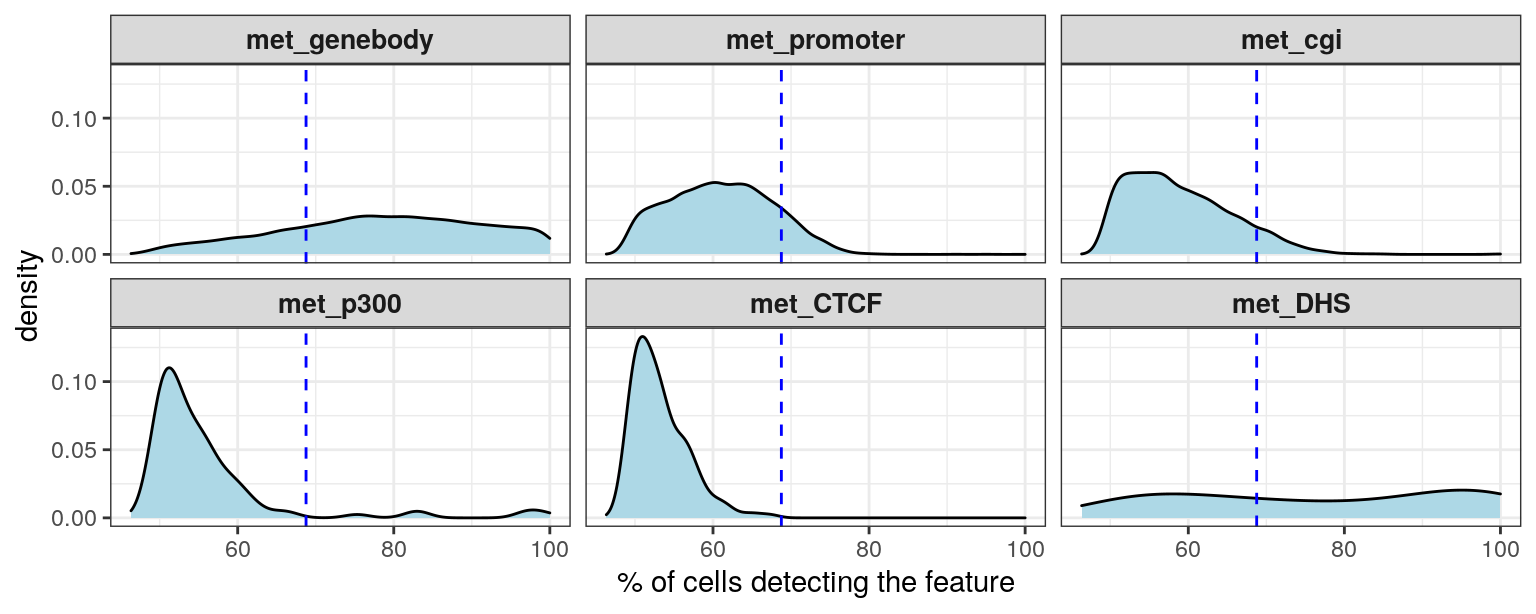
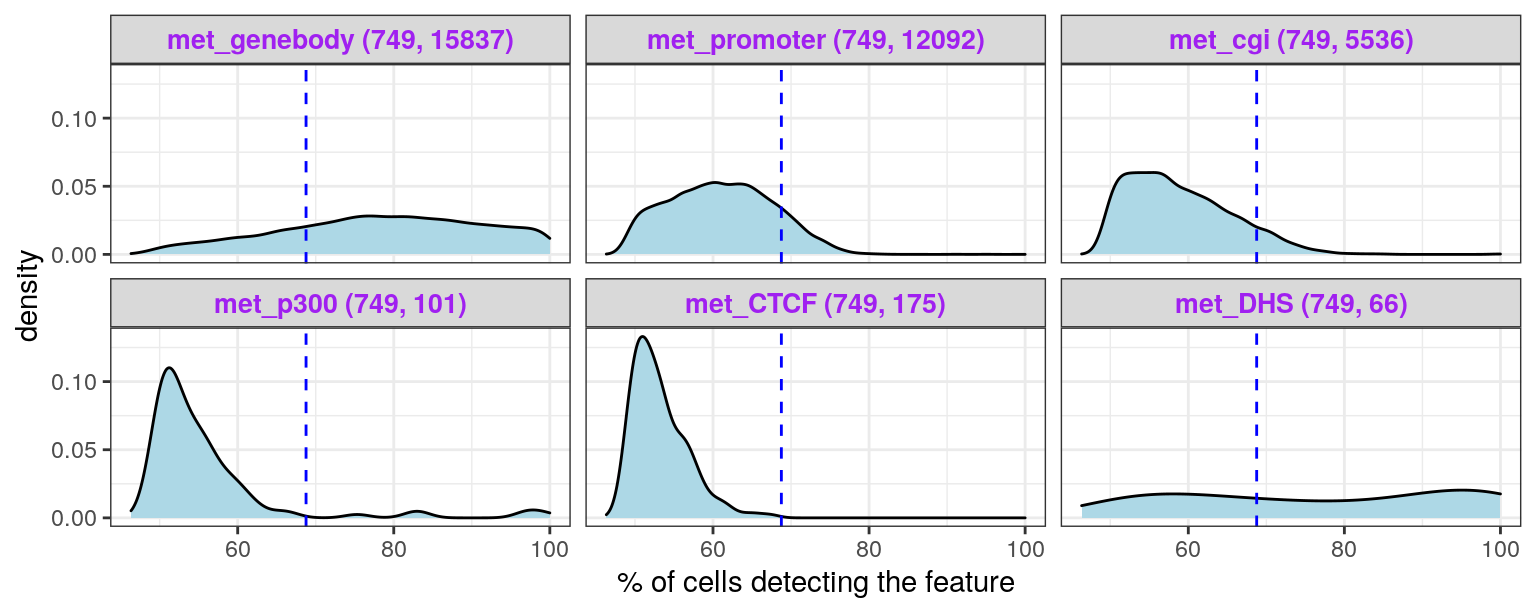
Deploying to gh-pages from  @ 44275f7bd87b1e6c330ce9ae592101da5ae94048 🚀

diff --git a/articles/index.html b/articles/index.html
@@ -100,16 +100,13 @@
     
 <p>To Do</p>
 <ul>
-<li>Add performance measure</li>
-<li>Add the number of features to subtitles in <code>cov_plot</code>
-</li>
-<li>Ensure python3 can be configured for MOFA2</li>
+<li>Add kNN</li>
 </ul>
 <hr>
 <p><strong>Note:</strong> These analyses are (slightly) different from the ones presented in the hackathon in the sense that:</p>
 <ul>
 <li>The cells used are different (only embryonic cells used)</li>
-<li>To enhance reproducibility on different machines, <code><a href="https://rdrr.io/pkg/uwot/man/umap.html">uwot::umap</a></code> was used instead of <code><a href="https://rdrr.io/pkg/umap/man/umap.html">umap::umap</a></code> for dimensionality reduction of RNA data so that python depndencies are reduced</li>
+<li>To enhance reproducibility on different machines, <code><a href="https://rdrr.io/pkg/uwot/man/umap.html">uwot::umap</a></code> was used instead of <code><a href="https://rdrr.io/pkg/umap/man/umap.html">umap::umap</a></code> for dimensionality reduction of RNA data so that python dependencies are reduced</li>
 </ul>
 <hr>
 <p>Load the required packages:</p>
@@ -162,10 +159,10 @@
 <div id="filter-extra-embryonic-cells" class="section level2">
 <h2 class="hasAnchor">
 <a href="#filter-extra-embryonic-cells" class="anchor"></a>filter extra-embryonic cells</h2>
-<div class="sourceCode" id="cb4"><html><body><pre class="r"><span class="fu"><a href="https://rdrr.io/r/base/cat.html">cat</a></span>(<span class="fu"><a href="https://rdrr.io/r/base/sprintf.html">sprintf</a></span>(<span class="st">'Dropping cells from lineage(s) %s ... \n'</span>, <span class="fu"><a href="https://rdrr.io/r/base/paste.html">paste</a></span>(<span class="fu"><a href="https://rdrr.io/r/base/sQuote.html">sQuote</a></span>(<span class="no">params</span>$<span class="no">drop_lineages</span>), <span class="kw">collapse</span> <span class="kw">=</span> <span class="st">', '</span>)))
-<span class="co">#&gt; Dropping cells from lineage(s) 'Visceral_endoderm', 'ExE_ectoderm' ...</span>
-<span class="fu"><a href="https://rdrr.io/r/base/cat.html">cat</a></span>(<span class="fu"><a href="https://rdrr.io/r/base/sprintf.html">sprintf</a></span>(<span class="st">'Retaining assays: %s ... \n'</span>, <span class="fu"><a href="https://rdrr.io/r/base/paste.html">paste</a></span>(<span class="fu"><a href="https://rdrr.io/r/base/sQuote.html">sQuote</a></span>(<span class="no">params</span>$<span class="no">keep_assays</span>), <span class="kw">collapse</span> <span class="kw">=</span> <span class="st">', '</span>)))
-<span class="co">#&gt; Retaining assays: 'rna', 'met_genebody', 'met_promoter', 'met_cgi', 'met_p300', 'met_CTCF', 'met_DHS' ...</span>
+<div class="sourceCode" id="cb4"><html><body><pre class="r"><span class="fu"><a href="https://rdrr.io/r/base/cat.html">cat</a></span>(<span class="fu"><a href="https://rdrr.io/r/base/sprintf.html">sprintf</a></span>(<span class="st">'Dropping cells from lineage(s) %s:\n'</span>, <span class="fu"><a href="https://rdrr.io/r/base/paste.html">paste</a></span>(<span class="fu"><a href="https://rdrr.io/r/base/sQuote.html">sQuote</a></span>(<span class="no">params</span>$<span class="no">drop_lineages</span>), <span class="kw">collapse</span> <span class="kw">=</span> <span class="st">', '</span>)))
+<span class="co">#&gt; Dropping cells from lineage(s) 'Visceral_endoderm', 'ExE_ectoderm':</span>
+<span class="fu"><a href="https://rdrr.io/r/base/cat.html">cat</a></span>(<span class="fu"><a href="https://rdrr.io/r/base/sprintf.html">sprintf</a></span>(<span class="st">'Retaining assays: %s: \n'</span>, <span class="fu"><a href="https://rdrr.io/r/base/paste.html">paste</a></span>(<span class="fu"><a href="https://rdrr.io/r/base/sQuote.html">sQuote</a></span>(<span class="no">params</span>$<span class="no">keep_assays</span>), <span class="kw">collapse</span> <span class="kw">=</span> <span class="st">', '</span>)))
+<span class="co">#&gt; Retaining assays: 'rna', 'met_genebody', 'met_promoter', 'met_cgi', 'met_p300', 'met_CTCF', 'met_DHS':</span>
 <span class="no">gastru.mae</span> <span class="kw">&lt;-</span> <span class="no">gastru.mae</span>[, !(<span class="no">gastru.mae</span>$<span class="no">lineage10x_2</span> <span class="kw">%in%</span> <span class="no">params</span>$<span class="no">drop_lineages</span>), <span class="no">params</span>$<span class="no">keep_assays</span>]
 <span class="co">#&gt; harmonizing input:</span>
 <span class="co">#&gt;   removing 4494 sampleMap rows not in names(experiments)</span></pre></body></html></div>
@@ -214,7 +211,7 @@
 </tr>
 </tbody>
 </table>
-<div class="sourceCode" id="cb7"><html><body><pre class="r"><span class="co">## create a data.frame from cell meta data</span>
+<div class="sourceCode" id="cb7"><html><body><pre class="r"><span class="co">## create a data.frame from cell metadata</span>
 <span class="no">coldata</span> <span class="kw">&lt;-</span> <span class="fu"><a href="https://rdrr.io/r/base/data.frame.html">data.frame</a></span>(<span class="fu">colData</span>(<span class="no">gastru.mae</span>))</pre></body></html></div>
 </div>
 <div id="feature-detection" class="section level2">
@@ -223,8 +220,19 @@
 <p>Create density plots of the feature detection rate across all cells for all modalities:</p>
 <div class="sourceCode" id="cb8"><html><body><pre class="r"><span class="co"># get the methylation assays</span>
 <span class="no">met_assays</span> <span class="kw">&lt;-</span> <span class="fu"><a href="https://rdrr.io/r/base/grep.html">grep</a></span>(<span class="fu"><a href="https://rdrr.io/r/base/names.html">names</a></span>(<span class="no">gastru.mae</span>), <span class="kw">pattern</span> <span class="kw">=</span> <span class="st">'^met'</span>, <span class="kw">value</span> <span class="kw">=</span> <span class="fl">TRUE</span>)
+<span class="co"># add dimensions to labels for ggplot</span>
+<span class="no">dims</span> <span class="kw">&lt;-</span> <span class="fu"><a href="https://rdrr.io/r/base/lapply.html">lapply</a></span>(<span class="fu"><a href="https://rdrr.io/pkg/MultiAssayExperiment/man/MultiAssayExperiment-methods.html">experiments</a></span>(<span class="no">gastru.mae</span>[,,<span class="no">met_assays</span>]), <span class="no">dim</span>)
+<span class="co">#&gt; harmonizing input:</span>
+<span class="co">#&gt;   removing 749 sampleMap rows not in names(experiments)</span>
+<span class="no">dims</span> <span class="kw">&lt;-</span> <span class="fu"><a href="https://rdrr.io/r/base/lapply.html">sapply</a></span>(<span class="no">dims</span>, <span class="kw">function</span>(<span class="no">x</span>) <span class="fu"><a href="https://rdrr.io/r/base/sprintf.html">sprintf</a></span>(<span class="st">' (%s, %s)'</span>, <span class="no">x</span>[<span class="fl">2</span>], <span class="no">x</span>[<span class="fl">1</span>]))
+<span class="fu"><a href="https://rdrr.io/r/base/names.html">names</a></span>(<span class="no">met_assays</span>) <span class="kw">&lt;-</span> <span class="fu"><a href="https://rdrr.io/r/base/paste.html">paste0</a></span>(<span class="no">met_assays</span>, <span class="no">dims</span>) <span class="kw">%&gt;%</span> <span class="fu"><a href="https://rdrr.io/r/base/list.html">as.list</a></span>()
+<span class="no">met_assays</span>
+<span class="co">#&gt; met_genebody (749, 15837) met_promoter (749, 12092)       met_cgi (749, 5536) </span>
+<span class="co">#&gt;            "met_genebody"            "met_promoter"                 "met_cgi" </span>
+<span class="co">#&gt;       met_p300 (749, 101)       met_CTCF (749, 175)         met_DHS (749, 66) </span>
+<span class="co">#&gt;                "met_p300"                "met_CTCF"                 "met_DHS"</span>
 <span class="co"># calculate the feature detection in a data.frame for methylation assays</span>
-<span class="no">coverages</span> <span class="kw">&lt;-</span> <span class="fu"><a href="https://rdrr.io/r/base/lapply.html">lapply</a></span>(<span class="fu">named_list</span>(<span class="no">met_assays</span>), <span class="kw">function</span>(<span class="no">assay_name</span>) {
+<span class="no">coverages</span> <span class="kw">&lt;-</span> <span class="fu"><a href="https://rdrr.io/r/base/lapply.html">lapply</a></span>(<span class="no">met_assays</span>, <span class="kw">function</span>(<span class="no">assay_name</span>) {
   <span class="no">mat</span> <span class="kw">&lt;-</span> <span class="fu">assay</span>(<span class="no">gastru.mae</span>, <span class="no">assay_name</span>)
   <span class="no">NAs</span> <span class="kw">&lt;-</span> <span class="fu"><a href="https://rdrr.io/r/base/colSums.html">rowSums</a></span>(!<span class="fu"><a href="https://rdrr.io/r/base/NA.html">is.na</a></span>(<span class="no">mat</span>))/<span class="fu"><a href="https://rdrr.io/r/base/dim.html">dim</a></span>(<span class="no">mat</span>)[<span class="fl">2</span>]*<span class="fl">100</span>
   <span class="fu"><a href="https://rdrr.io/r/base/data.frame.html">data.frame</a></span>(<span class="kw">pct_NAs</span><span class="kw">=</span><span class="no">NAs</span>)
@@ -232,11 +240,13 @@
 <span class="co"># create a long data.frame containing the assay name for plot</span>
 <span class="no">coverages</span> <span class="kw">&lt;-</span> <span class="fu"><a href="https://github.com/ajabadi/BIRSBIO2020.scNMTseq.PLS/reference/utils.html">rbindListWithNames</a></span>(<span class="no">coverages</span>)
 <span class="no">coverages</span>$<span class="no">dataset</span> <span class="kw">&lt;-</span> <span class="fu"><a href="https://rdrr.io/r/base/factor.html">factor</a></span>(<span class="no">coverages</span>$<span class="no">dataset</span>, <span class="kw">levels</span> <span class="kw">=</span> <span class="fu"><a href="https://Rdatatable.gitlab.io/data.table/reference/duplicated.html">unique</a></span>(<span class="no">coverages</span>$<span class="no">dataset</span>), <span class="kw">ordered</span> <span class="kw">=</span> <span class="fl">TRUE</span>)</pre></body></html></div>
+<p>Genomic contexts vary in level of feature detection rates:</p>
 <div class="sourceCode" id="cb9"><html><body><pre class="r"><span class="no">cov_plot</span> <span class="kw">&lt;-</span> <span class="fu"><a href="https://ggplot2.tidyverse.org/reference/ggplot.html">ggplot</a></span>(<span class="no">coverages</span>, <span class="fu"><a href="https://ggplot2.tidyverse.org/reference/aes.html">aes</a></span>(<span class="kw">x</span> <span class="kw">=</span> <span class="no">pct_NAs</span>)) + <span class="fu"><a href="https://ggplot2.tidyverse.org/reference/geom_density.html">geom_density</a></span>(<span class="kw">fill</span> <span class="kw">=</span> <span class="st">'lightblue'</span>, <span class="kw">show.legend</span> <span class="kw">=</span> <span class="fl">FALSE</span>) +
   <span class="fu"><a href="https://ggplot2.tidyverse.org/reference/geom_abline.html">geom_vline</a></span>(<span class="fu"><a href="https://ggplot2.tidyverse.org/reference/aes.html">aes</a></span>(<span class="kw">xintercept</span><span class="kw">=</span><span class="fu"><a href="https://rdrr.io/r/base/mean.html">mean</a></span>(<span class="no">pct_NAs</span>)),
              <span class="kw">color</span><span class="kw">=</span><span class="st">"blue"</span>, <span class="kw">linetype</span><span class="kw">=</span><span class="st">"dashed"</span>, <span class="kw">size</span><span class="kw">=</span><span class="fl">0.5</span>) +
   <span class="fu"><a href="https://ggplot2.tidyverse.org/reference/labs.html">labs</a></span>(<span class="kw">x</span> <span class="kw">=</span> <span class="st">'% of cells detecting the feature'</span>) + <span class="fu"><a href="https://ggplot2.tidyverse.org/reference/facet_wrap.html">facet_wrap</a></span>(<span class="no">.</span>~<span class="no">dataset</span>, <span class="kw">nrow</span> <span class="kw">=</span> <span class="fl">2</span>) +
-  <span class="fu"><a href="https://ggplot2.tidyverse.org/reference/ggtheme.html">theme_bw</a></span>() + <span class="fu"><a href="https://ggplot2.tidyverse.org/reference/theme.html">theme</a></span>(<span class="kw">strip.text.x</span> <span class="kw">=</span> <span class="fu"><a href="https://ggplot2.tidyverse.org/reference/element.html">element_text</a></span>(<span class="kw">size</span> <span class="kw">=</span> <span class="fl">10</span>, <span class="kw">face</span> <span class="kw">=</span> <span class="st">'bold'</span>))
+  <span class="fu"><a href="https://ggplot2.tidyverse.org/reference/ggtheme.html">theme_bw</a></span>() + <span class="fu"><a href="https://ggplot2.tidyverse.org/reference/theme.html">theme</a></span>(<span class="kw">strip.text.x</span> <span class="kw">=</span> <span class="fu"><a href="https://ggplot2.tidyverse.org/reference/element.html">element_text</a></span>(<span class="kw">size</span> <span class="kw">=</span> <span class="fl">10</span>, <span class="kw">face</span> <span class="kw">=</span> <span class="st">'bold'</span>, <span class="kw">color</span> <span class="kw">=</span> <span class="st">'purple'</span>))
+
 <span class="no">cov_plot</span></pre></body></html></div>
 <div class="figure">
 <img src="index_files/figure-html/unnamed-chunk-12-1.png" alt="density plots for methylation data show that shorter genomic regions tend to have less feture coverage. Dashed blue line indicates the average across all modalities." width="768"><p class="caption">
@@ -251,13 +261,13 @@ density plots for methylation data show that shorter genomic regions tend to hav
 <div id="umap" class="section level2">
 <h2 class="hasAnchor">
 <a href="#umap" class="anchor"></a>UMAP</h2>
-<div class="sourceCode" id="cb10"><html><body><pre class="r"><span class="fu"><a href="https://rdrr.io/r/base/Random.html">RNGversion</a></span>(<span class="st">'4.0.0'</span>)
-<span class="fu"><a href="https://rdrr.io/r/base/Random.html">set.seed</a></span>(<span class="no">params</span>$<span class="no">umap_params</span>[<span class="st">'run.seed'</span>])
+<p>Here we use <code>uwot</code> package for Uniform Manifold Approximation Projection. The original study used the <code>umap</code> package with <code>method = 'umap-learn'</code> parameter which requires the ‘umap-learn’ python library and can add complexity to set up on a VM.</p>
+<div class="sourceCode" id="cb10"><html><body><pre class="r"><span class="fu"><a href="https://rdrr.io/r/base/Random.html">set.seed</a></span>(<span class="no">params</span>$<span class="no">umap_params</span>[<span class="st">'run.seed'</span>])
 <span class="co">## all params use defaults except for 'n_components' and 'min_dist'</span>
 <span class="fu"><a href="https://rdrr.io/r/base/cat.html">cat</a></span>(<span class="fu"><a href="https://rdrr.io/r/base/sprintf.html">sprintf</a></span>(<span class="st">'running umap on RNA data with parameters: %s ...\n '</span>,
             <span class="fu"><a href="https://rdrr.io/r/base/paste.html">paste</a></span>(<span class="fu"><a href="https://rdrr.io/r/base/names.html">names</a></span>(<span class="no">params</span>$<span class="no">umap_params</span>[-<span class="fl">1</span>]), <span class="st">':'</span>,
                   <span class="no">params</span>$<span class="no">umap_params</span>[-<span class="fl">1</span>], <span class="kw">collapse</span> <span class="kw">=</span> <span class="st">', '</span>)))
-<span class="co">#&gt; running umap on RNA data with parameters: n_neighbors : 15, n_components : 4, min_dist : 0.7 ...</span>
+<span class="co">#&gt; running umap on RNA data with parameters: n_neighbors : 15, n_components : 4 ...</span>
 <span class="co">#&gt; </span>
 <span class="no">umap_rna_unsup</span> <span class="kw">&lt;-</span> <span class="kw pkg">uwot</span><span class="kw ns">::</span><span class="fu"><a href="https://rdrr.io/pkg/uwot/man/umap.html">umap</a></span>(
   <span class="fu"><a href="https://rdrr.io/r/base/t.html">t</a></span>(<span class="fu">assay</span>(<span class="no">gastru.mae</span>, <span class="st">'rna'</span>)),
@@ -270,7 +280,6 @@ density plots for methylation data show that shorter genomic regions tend to hav
   <span class="kw">init</span> <span class="kw">=</span> <span class="st">"spectral"</span>,
   <span class="kw">init_sdev</span> <span class="kw">=</span> <span class="kw">NULL</span>,
   <span class="kw">spread</span> <span class="kw">=</span> <span class="fl">1</span>,
-  <span class="kw">min_dist</span> <span class="kw">=</span> <span class="no">params</span>$<span class="no">umap_params</span>[<span class="st">'min_dist'</span>],
   <span class="kw">set_op_mix_ratio</span> <span class="kw">=</span> <span class="fl">1</span>,
   <span class="kw">local_connectivity</span> <span class="kw">=</span> <span class="fl">1</span>)</pre></body></html></div>
 <p>Create a data.frame of embeddings:</p>
@@ -278,7 +287,8 @@ density plots for methylation data show that shorter genomic regions tend to hav
 <span class="fu"><a href="https://rdrr.io/r/base/colnames.html">colnames</a></span>(<span class="no">df</span>) <span class="kw">&lt;-</span> <span class="fu"><a href="https://rdrr.io/r/base/paste.html">paste0</a></span>(<span class="st">'UMAP_'</span>, <span class="fu"><a href="https://rdrr.io/r/base/seq.html">seq_along</a></span>(<span class="no">df</span>))
 <span class="no">df</span> <span class="kw">&lt;-</span> <span class="fu"><a href="https://rdrr.io/r/base/cbind.html">cbind</a></span>(<span class="no">df</span>, <span class="no">coldata</span>)</pre></body></html></div>
 <p>Create colour palettes for stages and lineages:</p>
-<div class="sourceCode" id="cb12"><html><body><pre class="r"><span class="no">col_pallete</span> <span class="kw">&lt;-</span><span class="fu"><a href="https://rdrr.io/r/base/c.html">c</a></span>(<span class="st">"#440154FF"</span>, <span class="st">"#31688EFF"</span>, <span class="st">"#35B779FF"</span>, <span class="st">"#FDE725FF"</span>)
+<div class="sourceCode" id="cb12"><html><body><pre class="r"><span class="co"># col_pallete &lt;- viridisLite::viridis(n = 4)</span>
+<span class="no">col_pallete</span> <span class="kw">&lt;-</span> <span class="fu"><a href="https://rdrr.io/r/base/c.html">c</a></span>(<span class="st">"#440154FF"</span>, <span class="st">"#31688EFF"</span>, <span class="st">"#35B779FF"</span>, <span class="st">"#FDE725FF"</span>)
 <span class="fu"><a href="https://rdrr.io/r/base/names.html">names</a></span>(<span class="no">col_pallete</span>) <span class="kw">&lt;-</span> <span class="fu"><a href="https://rdrr.io/r/base/c.html">c</a></span>(<span class="st">"E4.5"</span>, <span class="st">"E5.5"</span>, <span class="st">"E6.5"</span>, <span class="st">"E7.5"</span>)</pre></body></html></div>
 <div class="sourceCode" id="cb13"><html><body><pre class="r"><span class="co">## helper function to create both plots coloured by stage</span>
 <span class="no">plot_umap_by_stage</span> <span class="kw">&lt;-</span> <span class="kw">function</span>(<span class="no">df</span>, <span class="no">dims</span> <span class="kw">=</span> <span class="fu"><a href="https://rdrr.io/r/base/c.html">c</a></span>(<span class="fl">1</span>,<span class="fl">2</span>)) {
@@ -286,15 +296,11 @@ density plots for methylation data show that shorter genomic regions tend to hav
   <span class="fu"><a href="https://ggplot2.tidyverse.org/reference/ggplot.html">ggplot</a></span>(<span class="no">df</span>, <span class="fu"><a href="https://ggplot2.tidyverse.org/reference/aes_.html">aes_string</a></span>(<span class="no">axes</span>[<span class="fl">1</span>], <span class="no">axes</span>[<span class="fl">2</span>])) + <span class="fu"><a href="https://ggplot2.tidyverse.org/reference/geom_point.html">geom_point</a></span>(<span class="fu"><a href="https://ggplot2.tidyverse.org/reference/aes.html">aes</a></span>(<span class="kw">col</span><span class="kw">=</span><span class="no">stage</span>)) +
     <span class="fu"><a href="https://ggplot2.tidyverse.org/reference/ggtheme.html">theme_classic</a></span>()+ <span class="fu"><a href="https://ggplot2.tidyverse.org/reference/scale_manual.html">scale_color_manual</a></span>(<span class="kw">values</span> <span class="kw">=</span> <span class="no">col_pallete</span>)
 }</pre></body></html></div>
-<p>First two components highlight the distinct transcriptional state of the early-stage cells compared to the late-stage cells:</p>
-<div class="sourceCode" id="cb14"><html><body><pre class="r"><span class="co">## dimensions 1 to 3 capture early- vs late-stage variation</span>
-<span class="fu">plot_umap_by_stage</span>(<span class="kw">df</span> <span class="kw">=</span> <span class="no">df</span>, <span class="kw">dims</span> <span class="kw">=</span> <span class="fu"><a href="https://rdrr.io/r/base/c.html">c</a></span>(<span class="fl">1</span>,<span class="fl">2</span>))
-<span class="fu">plot_umap_by_stage</span>(<span class="kw">df</span> <span class="kw">=</span> <span class="no">df</span>, <span class="kw">dims</span> <span class="kw">=</span> <span class="fu"><a href="https://rdrr.io/r/base/c.html">c</a></span>(<span class="fl">2</span>,<span class="fl">3</span>))</pre></body></html></div>
-<p>The variation driven by different stages is more apparent in the following dimensions:</p>
-<div class="sourceCode" id="cb15"><html><body><pre class="r"><span class="fu">plot_umap_by_stage</span>(<span class="kw">df</span> <span class="kw">=</span> <span class="no">df</span>, <span class="kw">dims</span> <span class="kw">=</span> <span class="fu"><a href="https://rdrr.io/r/base/c.html">c</a></span>(<span class="fl">3</span>,<span class="fl">4</span>))</pre></body></html></div>
+<p>First two components:</p>
+<div class="sourceCode" id="cb14"><html><body><pre class="r"><span class="fu">plot_umap_by_stage</span>(<span class="kw">df</span> <span class="kw">=</span> <span class="no">df</span>, <span class="kw">dims</span> <span class="kw">=</span> <span class="fu"><a href="https://rdrr.io/r/base/c.html">c</a></span>(<span class="fl">1</span>,<span class="fl">2</span>))</pre></body></html></div>
 <div class="figure">
-<img src="index_files/figure-html/unnamed-chunk-20-1.png" alt="UMAP plot shows distinct cell populations corresponding to early-stage, mid-stage, and late-stage cells as well as the within-stage variation which could correspond to different lineages." width="672"><p class="caption">
-UMAP plot shows distinct cell populations corresponding to early-stage, mid-stage, and late-stage cells as well as the within-stage variation which could correspond to different lineages.
+<img src="index_files/figure-html/unnamed-chunk-19-1.png" alt="UMAP plot shows distinct cell populations corresponding to early-stage, mid-stage, and late-stage cells as well as the within-stage variation for mainly E4.5 and E6.5 which could correspond to different lineages." width="672"><p class="caption">
+UMAP plot shows distinct cell populations corresponding to early-stage, mid-stage, and late-stage cells as well as the within-stage variation for mainly E4.5 and E6.5 which could correspond to different lineages.
 </p>
 </div>
 </div>
@@ -302,14 +308,17 @@ UMAP plot shows distinct cell populations corresponding to early-stage, mid-stag
 <div id="integration" class="section level1">
 <h1 class="hasAnchor">
 <a href="#integration" class="anchor"></a>Integration</h1>
+<div id="gene-id-to-gene-symbol-conversion-data-frame" class="section level2">
+<h2 class="hasAnchor">
+<a href="#gene-id-to-gene-symbol-conversion-data-frame" class="anchor"></a>gene id to gene symbol conversion data.frame</h2>
 <p>Get all the gene names from all modalities:</p>
-<div class="sourceCode" id="cb16"><html><body><pre class="r"><span class="no">all_features</span> <span class="kw">&lt;-</span> <span class="fu"><a href="https://rdrr.io/r/base/lapply.html">sapply</a></span>(<span class="fu"><a href="https://rdrr.io/pkg/MultiAssayExperiment/man/MultiAssayExperiment-methods.html">experiments</a></span>(<span class="no">gastru.mae</span>), <span class="no">rownames</span>) <span class="kw">%&gt;%</span> <span class="fu"><a href="https://rdrr.io/r/base/unlist.html">unlist</a></span>()
+<div class="sourceCode" id="cb15"><html><body><pre class="r"><span class="no">all_features</span> <span class="kw">&lt;-</span> <span class="fu"><a href="https://rdrr.io/r/base/lapply.html">sapply</a></span>(<span class="fu"><a href="https://rdrr.io/pkg/MultiAssayExperiment/man/MultiAssayExperiment-methods.html">experiments</a></span>(<span class="no">gastru.mae</span>), <span class="no">rownames</span>) <span class="kw">%&gt;%</span> <span class="fu"><a href="https://rdrr.io/r/base/unlist.html">unlist</a></span>()
 <span class="no">all_genes</span> <span class="kw">&lt;-</span> <span class="fu"><a href="https://rdrr.io/r/base/grep.html">grep</a></span>(<span class="kw">pattern</span> <span class="kw">=</span> <span class="st">'^ENSMUSG'</span>, <span class="kw">x</span> <span class="kw">=</span> <span class="no">all_features</span>, <span class="kw">value</span> <span class="kw">=</span> <span class="fl">TRUE</span>)
 <span class="no">all_genes</span> <span class="kw">&lt;-</span> <span class="fu"><a href="https://Rdatatable.gitlab.io/data.table/reference/duplicated.html">unique</a></span>(<span class="no">all_genes</span>)
 <span class="fu"><a href="https://rdrr.io/r/base/length.html">length</a></span>(<span class="no">all_genes</span>)
 <span class="co">#&gt; [1] 18359</span></pre></body></html></div>
 <p>Get the Ensembl gene name for these gene ids:</p>
-<div class="sourceCode" id="cb17"><html><body><pre class="r"><span class="no">ensembl</span> <span class="kw">&lt;-</span> <span class="fu"><a href="https://rdrr.io/pkg/biomaRt/man/useMart.html">useMart</a></span>(<span class="st">"ensembl"</span>, <span class="kw">dataset</span><span class="kw">=</span><span class="st">"mmusculus_gene_ensembl"</span>)
+<div class="sourceCode" id="cb16"><html><body><pre class="r"><span class="no">ensembl</span> <span class="kw">&lt;-</span> <span class="fu"><a href="https://rdrr.io/pkg/biomaRt/man/useMart.html">useMart</a></span>(<span class="st">"ensembl"</span>, <span class="kw">dataset</span><span class="kw">=</span><span class="st">"mmusculus_gene_ensembl"</span>)
 <span class="no">mouse_gene_ids</span>  <span class="kw">&lt;-</span> <span class="no">all_genes</span>
 
 <span class="no">symbols</span> <span class="kw">&lt;-</span> <span class="fu"><a href="https://rdrr.io/pkg/biomaRt/man/getBM.html">getBM</a></span>(<span class="kw">attributes</span><span class="kw">=</span><span class="fu"><a href="https://rdrr.io/r/base/c.html">c</a></span>(<span class="st">'ensembl_gene_id'</span>,
@@ -318,7 +327,12 @@ UMAP plot shows distinct cell populations corresponding to early-stage, mid-stag
              <span class="kw">values</span> <span class="kw">=</span> <span class="no">all_genes</span>,
              <span class="kw">mart</span> <span class="kw">=</span> <span class="no">ensembl</span>)
 <span class="no">symbols</span> <span class="kw">&lt;-</span> <span class="fu"><a href="https://rdrr.io/r/base/data.frame.html">data.frame</a></span>(<span class="no">symbols</span>, <span class="kw">row.names</span> <span class="kw">=</span> <span class="fl">1</span>)</pre></body></html></div>
-<div class="sourceCode" id="cb18"><html><body><pre class="r"><span class="fu"><a href="https://rdrr.io/r/base/lapply.html">lapply</a></span>(<span class="fu"><a href="https://rdrr.io/pkg/MultiAssayExperiment/man/MultiAssayExperiment-methods.html">experiments</a></span>(<span class="no">gastru.mae</span>), <span class="no">dim</span>)
+</div>
+<div id="pls-integartion-of-all-modalities-with-feature-selection" class="section level2">
+<h2 class="hasAnchor">
+<a href="#pls-integartion-of-all-modalities-with-feature-selection" class="anchor"></a>PLS integartion of all modalities with feature selection</h2>
+<div class="sourceCode" id="cb17"><html><body><pre class="r"><span class="co"># data dimensions</span>
+<span class="fu"><a href="https://rdrr.io/r/base/lapply.html">lapply</a></span>(<span class="fu"><a href="https://rdrr.io/pkg/MultiAssayExperiment/man/MultiAssayExperiment-methods.html">experiments</a></span>(<span class="no">gastru.mae</span>), <span class="no">dim</span>)
 <span class="co">#&gt; $rna</span>
 <span class="co">#&gt; [1] 18345   749</span>
 <span class="co">#&gt; </span>
@@ -339,22 +353,43 @@ UMAP plot shows distinct cell populations corresponding to early-stage, mid-stag
 <span class="co">#&gt; </span>
 <span class="co">#&gt; $met_DHS</span>
 <span class="co">#&gt; [1]  66 749</span></pre></body></html></div>
-<div class="sourceCode" id="cb19"><html><body><pre class="r"><span class="no">mmspls</span> <span class="kw">&lt;-</span> <span class="fu"><a href="https://github.com/ajabadi/BIRSBIO2020.scNMTseq.PLS/reference/multimodal_analysis_wrapper.html">multimodal_analysis_wrapper</a></span>(<span class="kw">mae</span> <span class="kw">=</span> <span class="no">gastru.mae</span>, <span class="kw">study_assays</span> <span class="kw">=</span> <span class="kw">NULL</span>, <span class="kw">ncomp</span> <span class="kw">=</span> <span class="fl">2</span>, <span class="kw">scale</span> <span class="kw">=</span> <span class="fl">FALSE</span>, <span class="kw">design</span> <span class="kw">=</span> <span class="st">'null'</span>, <span class="kw">lineages</span> <span class="kw">=</span> <span class="kw">NULL</span>, <span class="kw">stages</span> <span class="kw">=</span> <span class="kw">NULL</span>, <span class="kw">DA</span> <span class="kw">=</span> <span class="kw">NULL</span>, <span class="kw">keepX</span> <span class="kw">=</span> <span class="kw">NULL</span>, <span class="kw">save</span> <span class="kw">=</span> <span class="fl">FALSE</span>)
+<div class="sourceCode" id="cb18"><html><body><pre class="r"><span class="no">mmspls</span> <span class="kw">&lt;-</span> <span class="fu"><a href="https://github.com/ajabadi/BIRSBIO2020.scNMTseq.PLS/reference/multimodal_analysis_wrapper.html">multimodal_analysis_wrapper</a></span>(<span class="kw">mae</span> <span class="kw">=</span> <span class="no">gastru.mae</span>, <span class="kw">study_assays</span> <span class="kw">=</span> <span class="kw">NULL</span>, <span class="kw">ncomp</span> <span class="kw">=</span> <span class="fl">2</span>, <span class="kw">scale</span> <span class="kw">=</span> <span class="fl">FALSE</span>, <span class="kw">design</span> <span class="kw">=</span> <span class="st">'null'</span>, <span class="kw">lineages</span> <span class="kw">=</span> <span class="kw">NULL</span>, <span class="kw">stages</span> <span class="kw">=</span> <span class="kw">NULL</span>, <span class="kw">DA</span> <span class="kw">=</span> <span class="kw">NULL</span>, <span class="kw">keepX</span> <span class="kw">=</span> <span class="kw">NULL</span>, <span class="kw">save</span> <span class="kw">=</span> <span class="fl">FALSE</span>)
 <span class="co">#&gt; Making unique feature names by adding assay name to feature name for: met_genebody</span>
 <span class="co">#&gt; Making unique feature names by adding assay name to feature name for: met_promoter</span>
 <span class="co">#&gt; Warning in cor(A[[k]], variates.A[[k]]): the standard deviation is zero</span></pre></body></html></div>
-<div class="sourceCode" id="cb20"><html><body><pre class="r"><span class="no">plotIndiv_wrapper</span> <span class="kw">&lt;-</span> <span class="kw">function</span>(<span class="no">pls_obj</span>, <span class="no">col</span> <span class="kw">=</span> <span class="st">'stage'</span>, <span class="no">legend.title</span> <span class="kw">=</span> <span class="st">'Stage'</span>, <span class="no">comp</span> <span class="kw">=</span> <span class="fu"><a href="https://rdrr.io/r/base/c.html">c</a></span>(<span class="fl">1</span>,<span class="fl">2</span>), <span class="no">...</span>) {
-  <span class="fu"><a href="https://rdrr.io/pkg/mixOmics/man/plotIndiv.html">plotIndiv</a></span>(<span class="no">pls_obj</span>, <span class="kw">pch</span> <span class="kw">=</span> <span class="fl">16</span>, <span class="kw">comp</span> <span class="kw">=</span> <span class="no">comp</span>,<span class="kw">group</span> <span class="kw">=</span> <span class="fu"><a href="https://rdrr.io/r/base/droplevels.html">droplevels</a></span>(<span class="fu"><a href="https://rdrr.io/r/base/factor.html">factor</a></span>(<span class="no">coldata</span>[<span class="fu"><a href="https://rdrr.io/r/base/colnames.html">rownames</a></span>(<span class="no">pls_obj</span>$<span class="no">X</span><span class="kw">[[</span><span class="fl">1</span>]]),][,<span class="no">col</span>])), <span class="kw">legend</span> <span class="kw">=</span> <span class="fl">TRUE</span>, <span class="kw">legend.title</span> <span class="kw">=</span> <span class="no">legend.title</span>, <span class="kw">size.subtitle</span> <span class="kw">=</span> <span class="fl">10</span>, <span class="kw">cex</span><span class="kw">=</span><span class="fl">0.8</span>, <span class="no">...</span>)
+<div class="sourceCode" id="cb19"><html><body><pre class="r"><span class="no">plotIndiv_wrapper</span> <span class="kw">&lt;-</span> <span class="kw">function</span>(<span class="no">pls_obj</span>, <span class="no">coldata</span>, <span class="no">col_cell</span> <span class="kw">=</span> <span class="st">'stage'</span>, <span class="no">legend.title</span> <span class="kw">=</span> <span class="st">'Stage'</span>, <span class="no">comp</span> <span class="kw">=</span> <span class="fu"><a href="https://rdrr.io/r/base/c.html">c</a></span>(<span class="fl">1</span>,<span class="fl">2</span>), <span class="no">...</span>) {
+  <span class="co">## order coldata cells based on matching cells in pls modalities</span>
+  <span class="no">coldata</span> <span class="kw">&lt;-</span> <span class="no">coldata</span>[<span class="fu"><a href="https://rdrr.io/r/base/colnames.html">rownames</a></span>(<span class="no">pls_obj</span>$<span class="no">X</span><span class="kw">[[</span><span class="fl">1</span>]]),]
+  <span class="no">cell_class</span> <span class="kw">&lt;-</span> <span class="no">coldata</span>[,<span class="no">col_cell</span>]  <span class="co">## col factor for cells</span>
+  <span class="no">cell_class</span> <span class="kw">&lt;-</span> <span class="fu"><a href="https://rdrr.io/r/base/factor.html">factor</a></span>(<span class="no">cell_class</span>)
+  <span class="fu"><a href="https://rdrr.io/r/base/warning.html">suppressWarnings</a></span>({
+    <span class="fu"><a href="https://rdrr.io/pkg/mixOmics/man/plotIndiv.html">plotIndiv</a></span>(<span class="no">pls_obj</span>, <span class="kw">pch</span> <span class="kw">=</span> <span class="fl">16</span>, <span class="kw">comp</span> <span class="kw">=</span> <span class="no">comp</span>,<span class="kw">group</span> <span class="kw">=</span> <span class="no">cell_class</span>, <span class="kw">legend</span> <span class="kw">=</span> <span class="fl">TRUE</span>, <span class="kw">legend.title</span> <span class="kw">=</span> <span class="no">legend.title</span>, <span class="kw">size.subtitle</span> <span class="kw">=</span> <span class="fl">10</span>, <span class="kw">cex</span><span class="kw">=</span><span class="fl">0.8</span>, <span class="no">...</span>)
+  })
 }</pre></body></html></div>
+</div>
 <div id="score-plots" class="section level2">
 <h2 class="hasAnchor">
 <a href="#score-plots" class="anchor"></a>score plots</h2>
 <p>Colored by stage:</p>
-<div class="sourceCode" id="cb21"><html><body><pre class="r"><span class="fu">plotIndiv_wrapper</span>(<span class="kw">pls_obj</span> <span class="kw">=</span> <span class="no">mmspls</span>,<span class="kw">col</span> <span class="kw">=</span> <span class="st">'stage'</span>, <span class="kw">legend.title</span> <span class="kw">=</span> <span class="st">'Stage'</span>, <span class="kw">comp</span> <span class="kw">=</span> <span class="fu"><a href="https://rdrr.io/r/base/c.html">c</a></span>(<span class="fl">1</span>,<span class="fl">2</span>), <span class="kw">subtitle</span> <span class="kw">=</span> <span class="fu"><a href="https://rdrr.io/r/base/names.html">names</a></span>(<span class="no">mmspls</span>$<span class="no">X</span>), <span class="kw">col.per.group</span> <span class="kw">=</span> <span class="no">col_pallete</span>)
-<span class="co">#&gt; Warning in shape.input.plotIndiv(object = object, n = n, blocks = blocks, :</span>
-<span class="co">#&gt; 'ind.names' is set to FALSE as 'pch' overrides it</span></pre></body></html></div>
-<p><img src="index_files/figure-html/unnamed-chunk-28-1.png" width="672"></p>
+<div class="sourceCode" id="cb20"><html><body><pre class="r"><span class="fu">plotIndiv_wrapper</span>(<span class="kw">pls_obj</span> <span class="kw">=</span> <span class="no">mmspls</span>, <span class="kw">coldata</span> <span class="kw">=</span> <span class="no">coldata</span>, <span class="kw">col_cell</span> <span class="kw">=</span> <span class="st">'stage'</span>, <span class="kw">legend.title</span> <span class="kw">=</span> <span class="st">'Stage'</span>, <span class="kw">comp</span> <span class="kw">=</span> <span class="fu"><a href="https://rdrr.io/r/base/c.html">c</a></span>(<span class="fl">1</span>,<span class="fl">2</span>), <span class="kw">subtitle</span> <span class="kw">=</span> <span class="fu"><a href="https://rdrr.io/r/base/names.html">names</a></span>(<span class="no">mmspls</span>$<span class="no">X</span>), <span class="kw">col.per.group</span> <span class="kw">=</span> <span class="no">col_pallete</span>)</pre></body></html></div>
+<p><img src="index_files/figure-html/unnamed-chunk-27-1.png" width="768"></p>
 </div>
+</div>
+<div id="concordancy-with-rna" class="section level1">
+<h1 class="hasAnchor">
+<a href="#concordancy-with-rna" class="anchor"></a>Concordancy with RNA</h1>
+<p>Average correlation of the components of rna and different modalities:</p>
+<div class="sourceCode" id="cb21"><html><body><pre class="r"><span class="no">cor_with_rna</span> <span class="kw">&lt;-</span> <span class="fu"><a href="https://rdrr.io/r/base/lapply.html">sapply</a></span>(<span class="no">mmspls</span>$<span class="no">variates</span>[-<span class="fl">1</span>], <span class="kw">function</span>(<span class="no">x</span>) {
+  <span class="fu"><a href="https://rdrr.io/r/base/mean.html">mean</a></span>(<span class="fu"><a href="https://rdrr.io/r/base/diag.html">diag</a></span>(<span class="fu"><a href="https://rdrr.io/r/stats/cor.html">cor</a></span>(<span class="no">mmspls</span>$<span class="no">variates</span>$<span class="no">rna</span>, <span class="no">x</span>)))
+})
+
+<span class="no">cor_with_rna</span> <span class="kw">&lt;-</span> <span class="no">cor_with_rna</span> <span class="kw">%&gt;%</span> <span class="fu"><a href="https://rdrr.io/r/base/sort.html">sort</a></span>(<span class="kw">decreasing</span> <span class="kw">=</span> <span class="fl">TRUE</span>)
+<span class="no">cor_with_rna</span> <span class="kw">&lt;-</span> <span class="no">cor_with_rna</span> <span class="kw">%&gt;%</span> <span class="fu"><a href="https://rdrr.io/r/base/as.data.frame.html">as.data.frame</a></span>() <span class="kw">%&gt;%</span> <span class="fu"><a href="https://rdrr.io/pkg/magrittr/man/aliases.html">set_colnames</a></span>(<span class="fu"><a href="https://rdrr.io/r/base/c.html">c</a></span>(<span class="st">'cor'</span>))
+<span class="no">cor_with_rna</span>$<span class="no">modality</span> <span class="kw">&lt;-</span> <span class="fu"><a href="https://rdrr.io/r/base/factor.html">factor</a></span>(<span class="fu"><a href="https://rdrr.io/r/base/colnames.html">rownames</a></span>(<span class="no">cor_with_rna</span>), <span class="kw">levels</span> <span class="kw">=</span> <span class="fu"><a href="https://rdrr.io/r/base/colnames.html">rownames</a></span>(<span class="no">cor_with_rna</span>), <span class="kw">ordered</span> <span class="kw">=</span> <span class="fl">TRUE</span>)
+
+<span class="fu"><a href="https://ggplot2.tidyverse.org/reference/ggplot.html">ggplot</a></span>(<span class="no">cor_with_rna</span>, <span class="fu"><a href="https://ggplot2.tidyverse.org/reference/aes.html">aes</a></span>(<span class="kw">x</span> <span class="kw">=</span> <span class="no">modality</span>, <span class="kw">y</span> <span class="kw">=</span> <span class="no">cor</span>)) + <span class="fu"><a href="https://ggplot2.tidyverse.org/reference/geom_bar.html">geom_col</a></span>(<span class="kw">fill</span> <span class="kw">=</span> <span class="st">"#35B779FF"</span>) + <span class="fu"><a href="https://ggplot2.tidyverse.org/reference/ggtheme.html">theme_classic</a></span>() +
+  <span class="fu"><a href="https://ggplot2.tidyverse.org/reference/labs.html">labs</a></span>(<span class="kw">y</span> <span class="kw">=</span> <span class="st">'Avg correlation with RNA'</span>, <span class="kw">y</span> <span class="kw">=</span> <span class="st">'Modality'</span>)</pre></body></html></div>
+<p><img src="index_files/figure-html/unnamed-chunk-29-1.png" width="672"></p>
 </div>
 <div class="footnotes">
 <hr>
